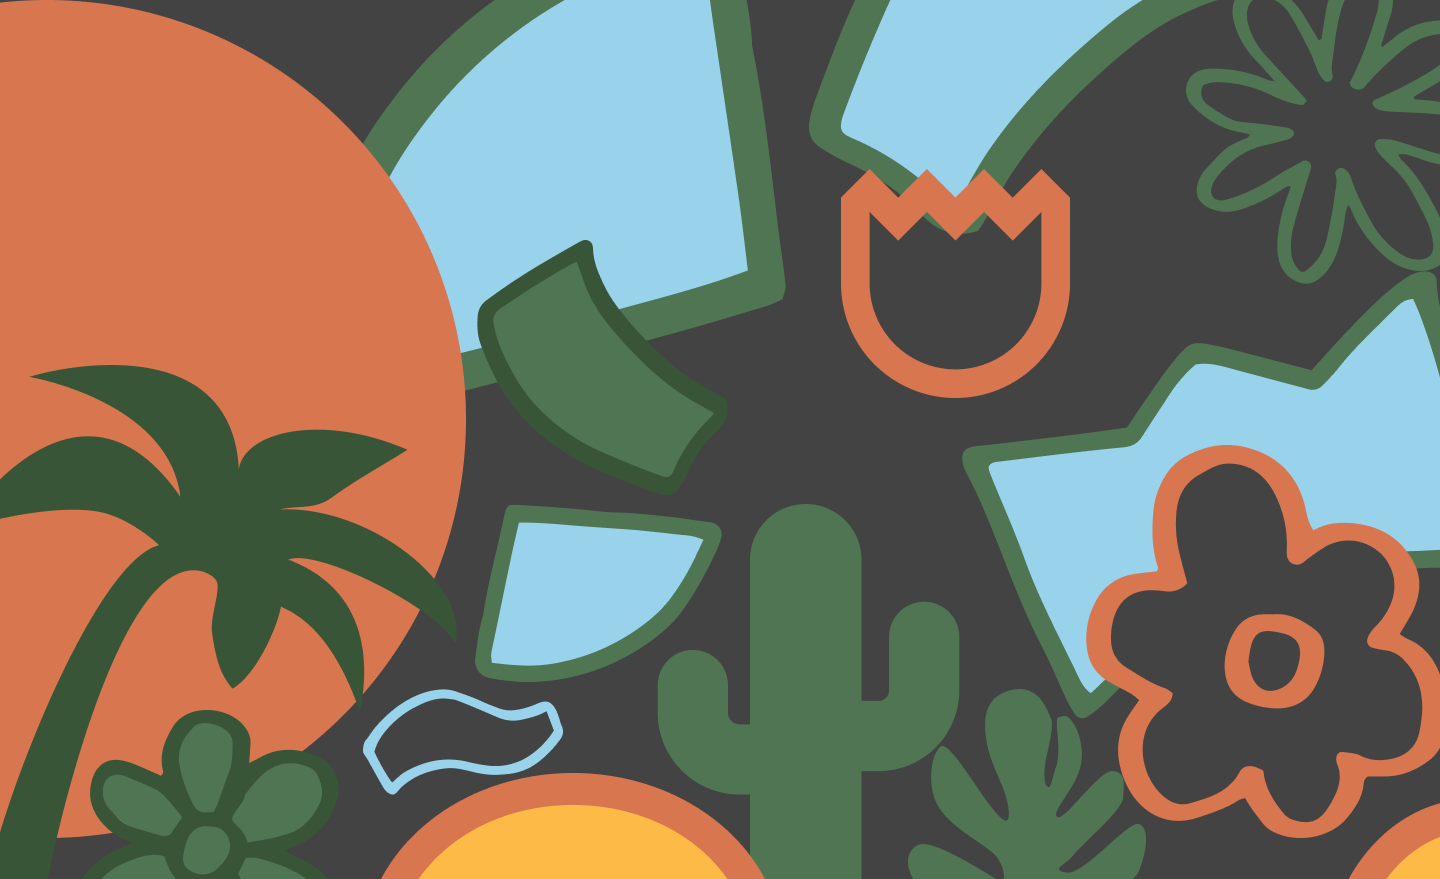
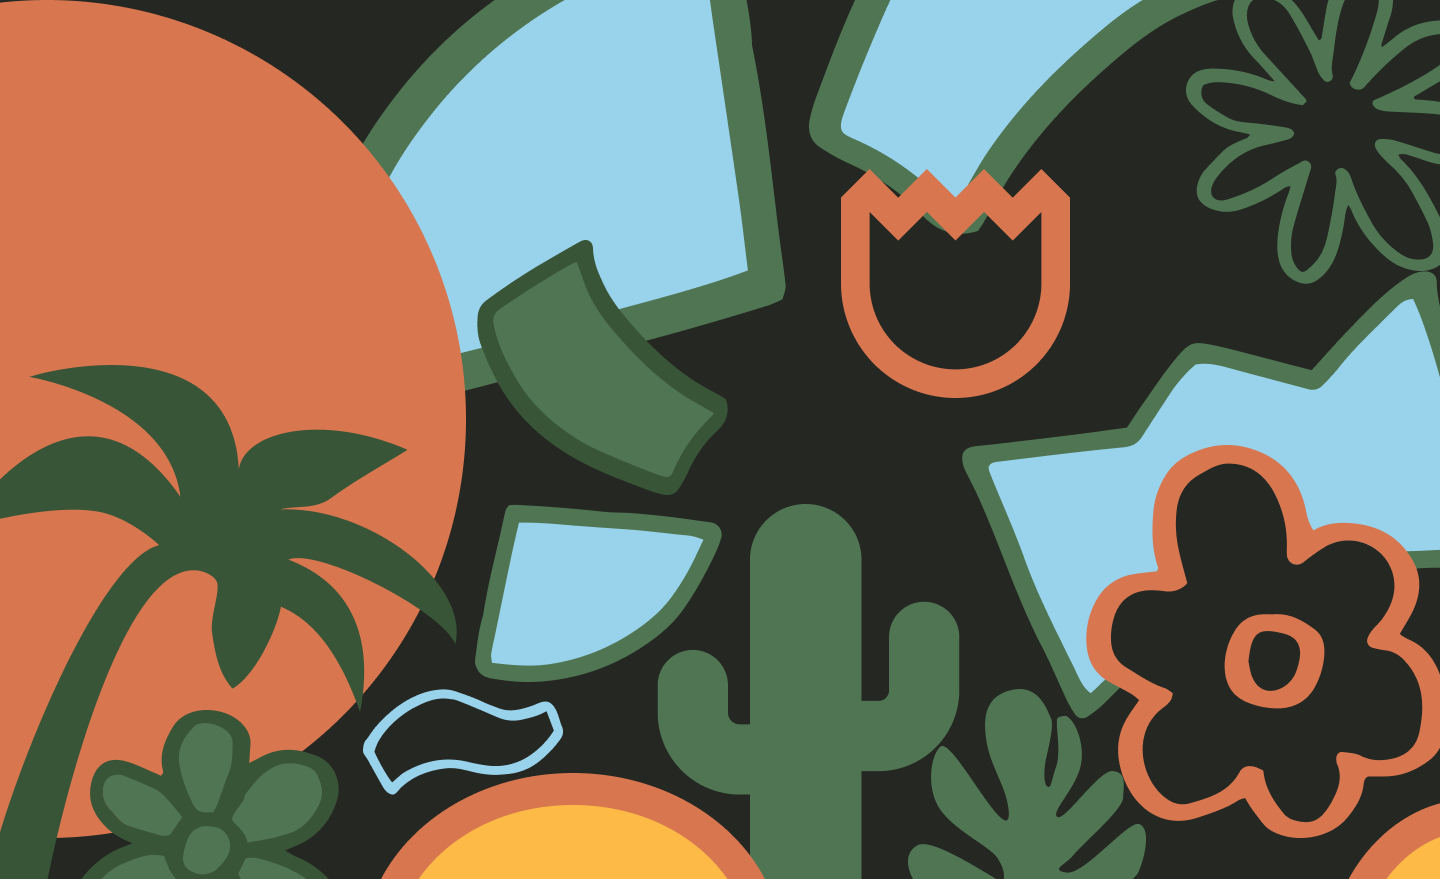
add hero animations and contact hovers

diff --git a/src/pods/home/components/hero/hero.css b/src/pods/home/components/hero/hero.css
@@ -3,24 +3,15 @@
 .hero {
     background-color: var(--background);
     overflow: hidden;
-
     width: 100%;
     display: flex;
     flex-direction: column;
     justify-content: center;
 }
 
-
 .hero__container {
     display: flex;
-    justify-content: center;
-    
-  
-}
-
-.hero__ilustration {
-    /* position: relative;
-    right: -10%; */
+    justify-content: center;  
 }
 
 .hero__content {
@@ -28,14 +19,91 @@
     flex-direction: column;
     gap: var(--space-xs);
     padding: var(--space-lg) var(--space-md);
-
     max-width: 1440px;
-    width: 1440px;
+    width: 100%;
 }
-
 
 .hero h2 {
     color: var(--color-primary);
+}
+
+/* Hero illustration */
+.hero__ilustration {
+  width: 100%;
+}
+
+.hero__ilustration svg {
+  display: block;
+  width: 100%;
+  height: auto;
+}
+
+/* Mountain */
+.hero__ilustration--mountain {
+  transition: fill 350ms ease;
+}
+
+[data-theme="dark"] .hero__ilustration--mountain {
+    fill: #454B40;
+}
+
+/* Cactus */
+.hero__ilustration--cactus {
+  transform-box: fill-box;
+  transform-origin: center bottom;
+  animation: cactus-sway 2s ease-in-out infinite alternate;
+}
+
+@keyframes cactus-sway {
+  from {
+    transform: rotate(-1.5deg) translateX(-3px);
+  }
+
+  to {
+    transform: rotate(1.5deg) translateX(3px);
+  }
+}
+
+/* Sun / Moon */
+.hero__ilustration--circle {
+  transform-box: fill-box;
+  transform-origin: center;
+  opacity: 1;
+  transform: translateY(0);
+}
+
+body[data-theme="light"] .hero__ilustration--circle {
+  fill: #D7764F;
+  animation: sun-rise 1.4s ease-in-out both;
+}
+
+body[data-theme="dark"] .hero__ilustration--circle {
+    fill: #F7F0D5;
+    animation: moon-rise 1.4s ease-in-out both;
+}
+
+@keyframes sun-rise {
+  0% {
+    opacity: 0;
+    transform: translateY(45px);
+  }
+
+  100% {
+    opacity: 1;
+    transform: translateY(0);
+  }
+}
+
+@keyframes moon-rise {
+  0% {
+    opacity: 0;
+    transform: translateY(45px);
+  }
+
+  100% {
+    opacity: 1;
+    transform: translateY(0);
+  }
 }
 
 @media (min-width: 1200px) {
@@ -54,15 +122,21 @@
     }
 }
 
-@media (min-width: 1440px) {
-    /*.hero__content {
-        padding: var(--space-3xl) var(--space-2xl) 0 var(--space-2xl);
-    }*/
+
+/* Respect reduced-motion preferences */
+@media (prefers-reduced-motion: reduce) {
+  .hero__ilustration--cactus {
+    animation: none;
+  }
+
+  .hero__ilustration--mountain {
+    transform: none;
+  }
+
+  .hero__ilustration--circle {
+    animation: none !important;
+    opacity: 1;
+    transform: none;
+  }
 }
 
-[data-theme="dark"] {
-    .hero__ilustration--circle {
-        fill: #BEBCA0;
-    }
-   
-}

diff --git a/src/pods/home/components/contact/contact.css b/src/pods/home/components/contact/contact.css
@@ -2,13 +2,14 @@
 
 .contact {
     background-image: url('@/assets/images/shapes-ilustration.png');
-    background-position: bottom;
+    background-position: center bottom;
     background-repeat: no-repeat;
     background-size: cover;
     display: flex;
     justify-content: center;
     align-items: center;
-    height: 600px;
+    min-height: 420px;
+    height: auto;
 }
 
 .contact__container {
@@ -17,18 +18,20 @@
     display: flex;
     flex-direction: column;
     align-items: center;
-    padding: var(--space-lg) var(--space-md);
+    padding: 0 var(--space-md);
 }
 
 .contact__content {
     width: 100%;
     max-width: 650px;
-    height: fit-content;
+    box-sizing: border-box;
+   
     background-color: rgb(225 201 175 / 80%);
     border-radius: var(--space-md);
-    border: 6px solid var(--color-primary);
+    border: 4px solid var(--color-primary);
     display: flex;
     flex-direction: column;
+    align-items: center;
     gap: var(--space-xs);
     padding: var(--space-2xl) var(--space-xs);
 }
@@ -40,6 +43,11 @@
     color: var(--text-color);
 }
 
+.contact__content-text h3 {
+    font-size: clamp(2rem, 7vw, 3.625rem);
+    margin: 0;
+}
+
 .contact__content-icons {
     display: flex;
     gap: var(--space-xs);
@@ -47,10 +55,39 @@
     justify-content: center;
 }
 
+.contact__content-icons a {
+    transition:
+        transform 0.25s ease,
+        color 0.25s ease;
+}
+
+.contact__content-icons svg {
+    display: block;
+    transition: fill 0.25s ease;
+}
+
+.contact__content-icons a:hover {
+    transform: translateY(-4px) scale(1.08);
+}
+
+.contact__content-icons a:focus-visible {
+    outline: 3px solid var(--color-primary);
+    outline-offset: 4px;
+}
+
 @media (min-width: 768px) {
+    .contact {
+        min-height: 600px;
+    }
+
     .contact__container {
         gap: var(--space-2xl);
-        padding: var(--space-2xl);
+        padding: 0 var(--space-2xl);
+    }
+
+    .contact__content-icons svg {
+        width: 46px;
+        height: 46px;
     }
 }
 
@@ -68,10 +105,18 @@
 
     .contact__content {
         background-color: rgb(57 85 55 / 80%);
-        border: 6px solid var(--color-secondary-dark);
+        border: 4px solid var(--color-secondary-dark);
     }
 
     .contact__content-icons svg path {
-        fill: var(--color-pure-white);
+        fill: var(--text-color);
+    }
+}
+
+
+@media (prefers-reduced-motion: reduce) {
+    .contact__content-icons a,
+    .contact__content-icons svg {
+        transition: none;
     }
 }

diff --git a/src/pods/home/components/contact/contact.tsx b/src/pods/home/components/contact/contact.tsx
@@ -15,16 +15,16 @@ export const ContactComponent: React.FC = () => {
 
 					<div className="contact__content-icons">
 						<a href="https://github.com/sonia-calderon" target="_blank">
-							<GithubIcon size={46} color="var(--color-neutral-700)" />
+							<GithubIcon size={34} color="var(--color-neutral-700)" />
 						</a>
 						<a href="mailto:soniacalderonruiz@hotmail.com">
-							<MailIcon size={46} color="var(--color-neutral-700)" />
+							<MailIcon size={34} color="var(--color-neutral-700)" />
 						</a>
 						<a
 							href="https://www.linkedin.com/in/sonia-calderon-ruiz/"
 							target="_blank"
 						>
-							<LinkedinIcon size={46} color="var(--color-neutral-700)" />
+							<LinkedinIcon size={34} color="var(--color-neutral-700)" />
 						</a>
 					</div>
 				</div>

diff --git a/src/css/base/elements.css b/src/css/base/elements.css
@@ -70,6 +70,19 @@ button {
   scroll-margin-top: 87px;
 }
 
+/* Smoothly transition background and colors across the entire site */
+body, 
+.header,
+.nav, 
+.hero, 
+.hero__ilustration--mountain,
+.about,
+.experience,
+.projects,
+.contact,
+.footer {
+  transition: background-color 0.8s ease, color 0.8s ease, fill 0.8s ease;
+}
 
 
 
